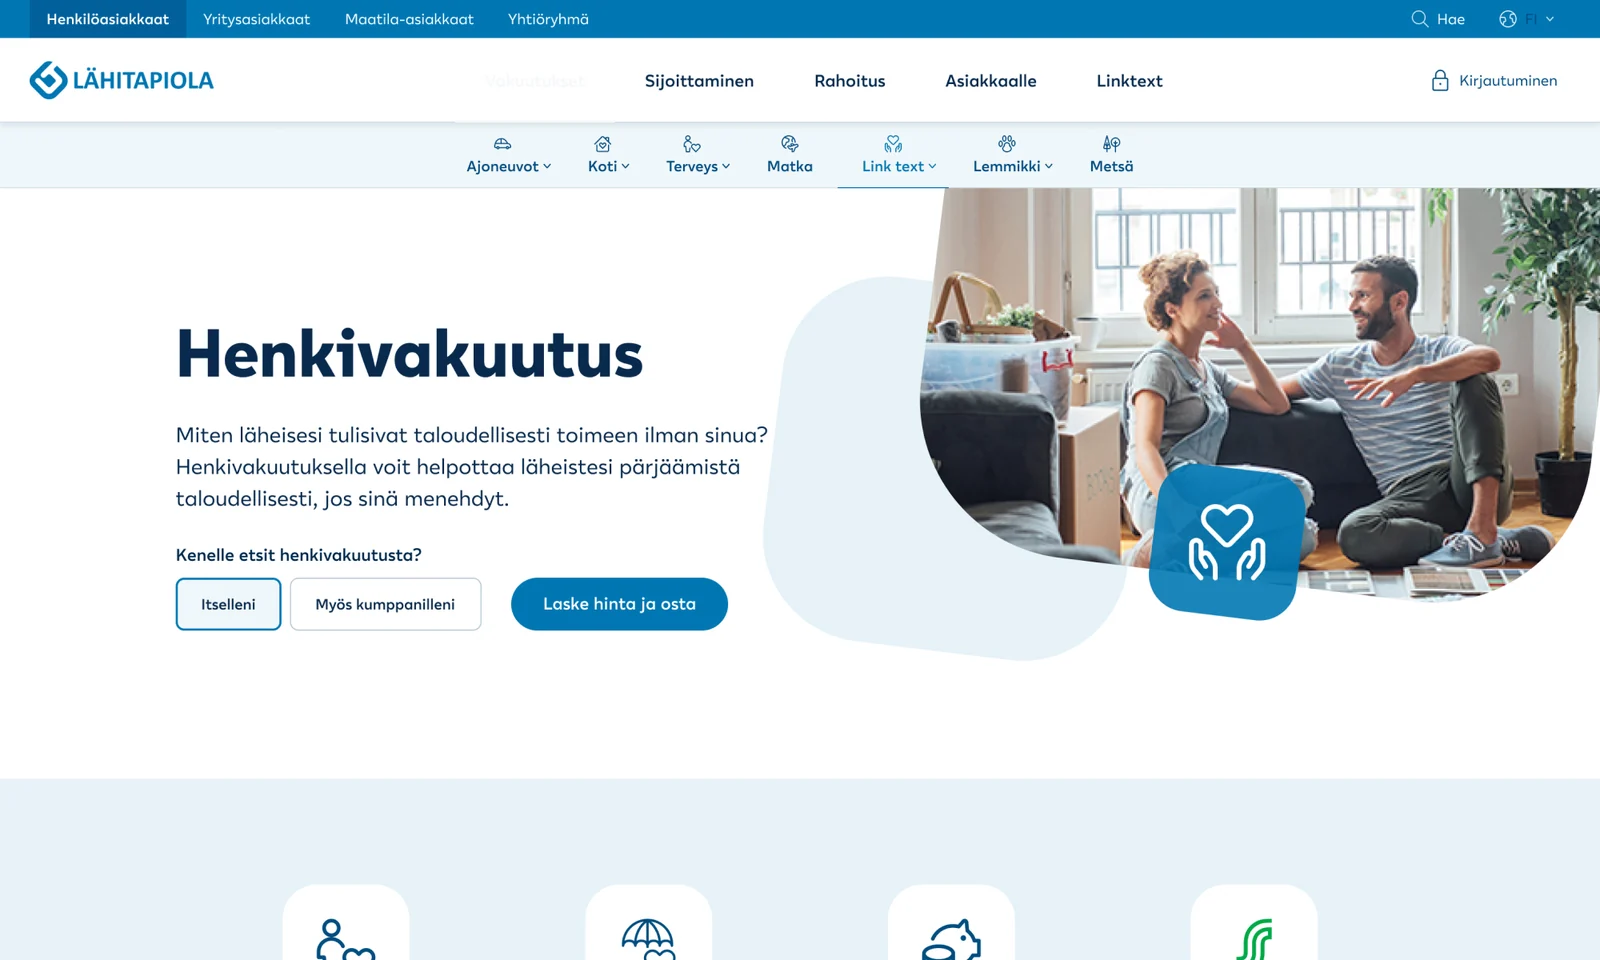
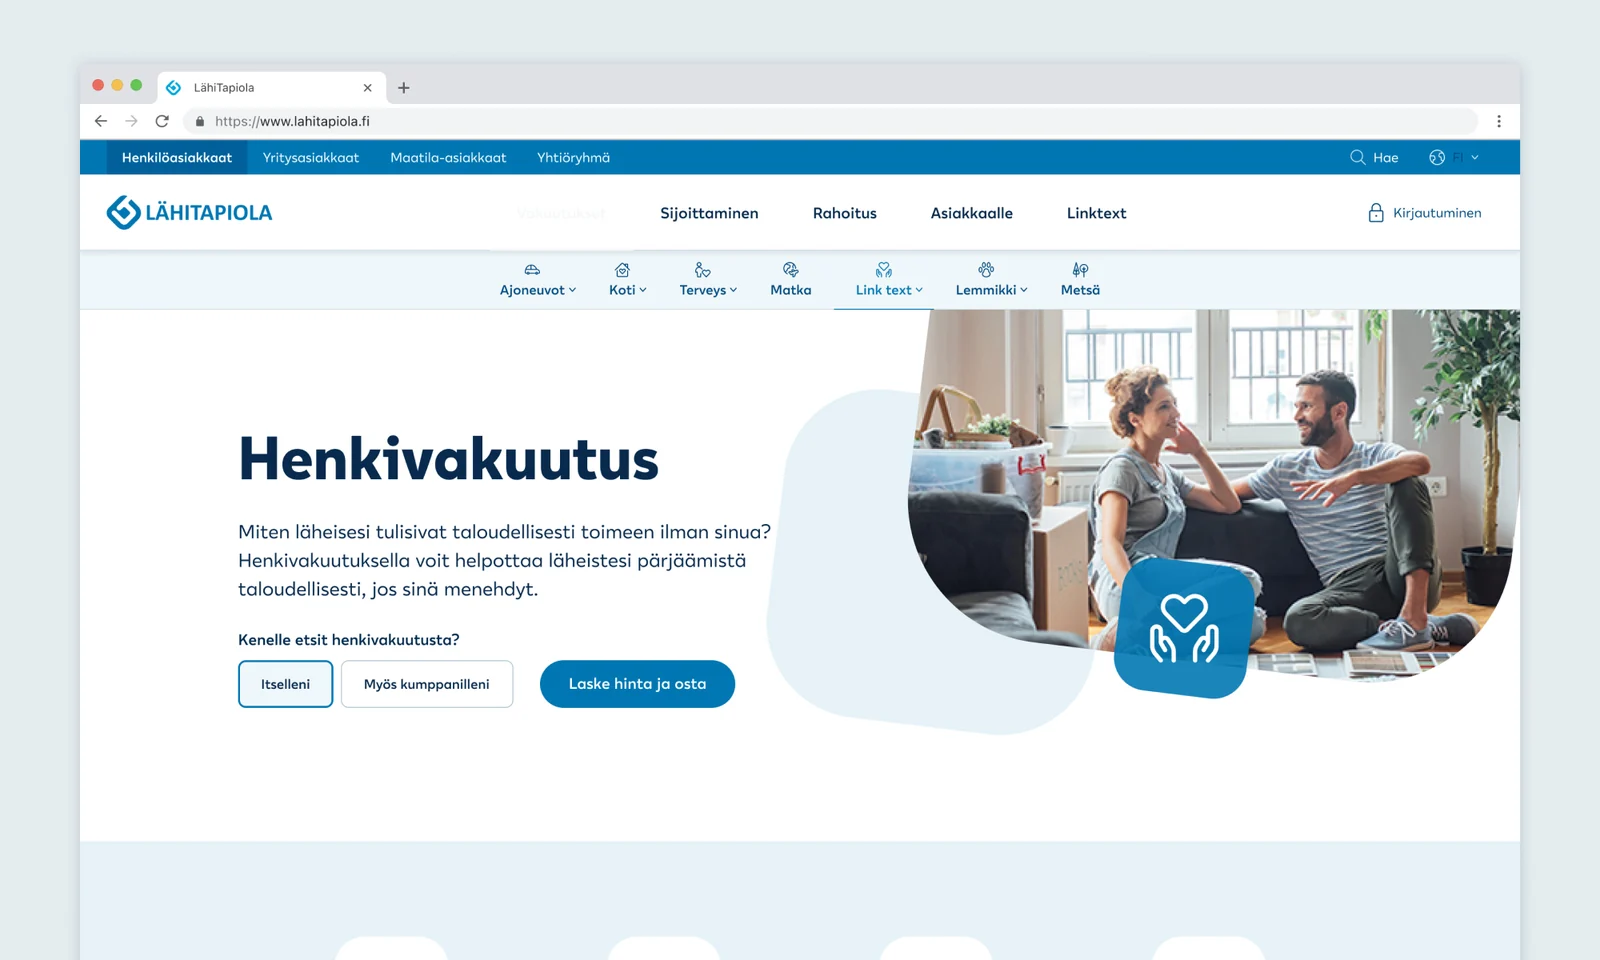
Update LähiTapiola Duet images: brand pages, colour definitions and components with dark variants

diff --git a/index.html b/index.html
@@ -589,10 +589,10 @@ ul,ol{margin:0;padding:0;list-style:none}
       </div>
     </section>
     <div class="chapter figs" style="padding-top:var(--s-l)">
-      <figure class="fig c3"><button data-cap="The same life insurance page in the LähiTapiola brand"><img src="img/lt-brand-lt.webp" width="1600" height="960" alt="LähiTapiola life insurance page built with Duet" loading="lazy"></button><figcaption class="t-label">LähiTapiola brand</figcaption></figure>
-      <figure class="fig c3"><button data-cap="The same life insurance page in the Turva brand"><img src="img/lt-brand-turva.webp" width="1600" height="960" alt="Turva life insurance page built with Duet" loading="lazy"></button><figcaption class="t-label">Turva brand</figcaption></figure>
-      <figure class="fig c3"><button data-cap="Duet colour definitions for LähiTapiola"><img class="img-light" src="img/lt-colors-lt.webp" width="1600" height="960" alt="Duet background and foreground colour tokens for LähiTapiola" loading="lazy"><img class="img-dark" src="img/lt-colors-lt-dark.webp" width="1600" height="960" alt="Duet background and foreground colour tokens for LähiTapiola" loading="lazy"></button><figcaption class="t-label">LähiTapiola colour definitions</figcaption></figure>
-      <figure class="fig c3"><button data-cap="Duet colour definitions for Turva"><img class="img-light" src="img/lt-colors-turva.webp" width="1600" height="960" alt="Duet background and foreground colour tokens for Turva" loading="lazy"><img class="img-dark" src="img/lt-colors-turva-dark.webp" width="1600" height="960" alt="Duet background and foreground colour tokens for Turva" loading="lazy"></button><figcaption class="t-label">Turva colour definitions</figcaption></figure>
+      <figure class="fig c3"><button data-cap="The same life insurance page in the LähiTapiola brand"><img class="img-light" src="img/lt-brand-lt.webp" width="1600" height="960" alt="LähiTapiola life insurance page built with Duet" loading="lazy"><img class="img-dark" src="img/lt-brand-lt-dark.webp" width="1600" height="960" alt="LähiTapiola life insurance page built with Duet" loading="lazy"></button><figcaption class="t-label">LähiTapiola brand</figcaption></figure>
+      <figure class="fig c3"><button data-cap="The same life insurance page in the Turva brand"><img class="img-light" src="img/lt-brand-turva.webp" width="1600" height="960" alt="Turva life insurance page built with Duet" loading="lazy"><img class="img-dark" src="img/lt-brand-turva-dark.webp" width="1600" height="960" alt="Turva life insurance page built with Duet" loading="lazy"></button><figcaption class="t-label">Turva brand</figcaption></figure>
+      <figure class="fig c3"><button data-cap="Duet colour definitions for LähiTapiola and Turva"><img class="img-light" src="img/lt-colors.webp" width="1600" height="960" alt="Duet background colour tokens for LähiTapiola and Turva side by side" loading="lazy"><img class="img-dark" src="img/lt-colors-dark.webp" width="1600" height="960" alt="Duet background colour tokens for LähiTapiola and Turva side by side" loading="lazy"></button><figcaption class="t-label">Colour definitions</figcaption></figure>
+      <figure class="fig c3"><button data-cap="Duet components and brand tokens in Figma"><img class="img-light" src="img/lt-components.webp" width="1600" height="960" alt="Duet chip components and the brand tokens panel in Figma, with LähiTapiola and Turva values" loading="lazy"><img class="img-dark" src="img/lt-components-dark.webp" width="1600" height="960" alt="Duet chip components and the brand tokens panel in Figma, with LähiTapiola and Turva values" loading="lazy"></button><figcaption class="t-label">Components &amp; brand tokens</figcaption></figure>
     </div>
 
 
